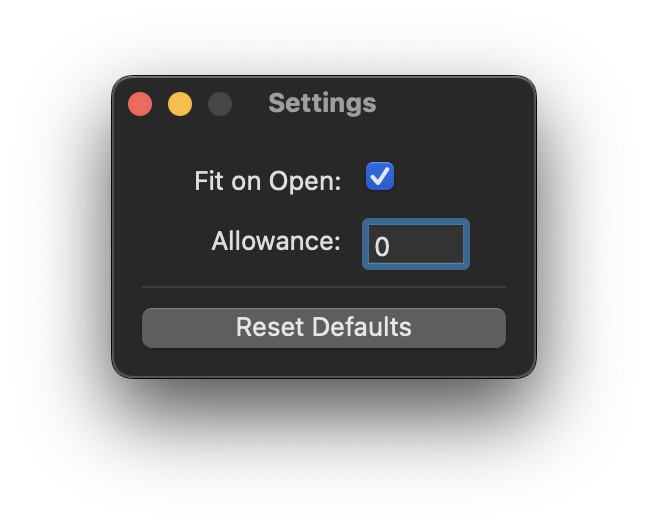
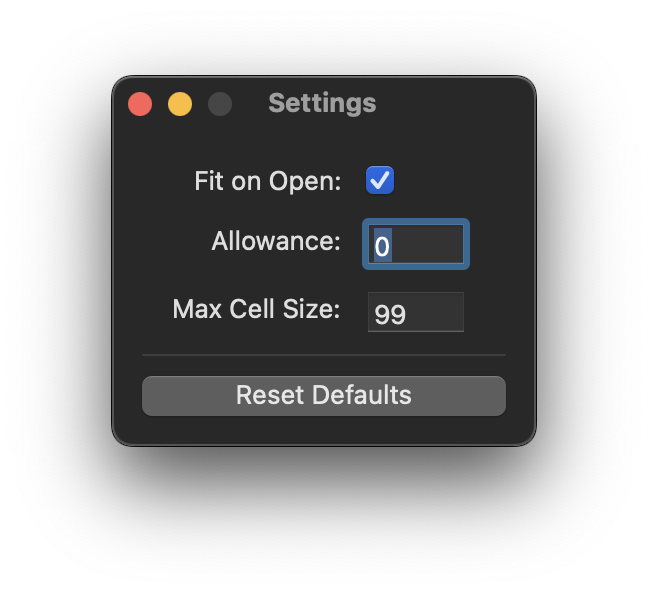
Support max cell size
Fix https://github.com/ryanbugden/Fit-Glyph-Cells/issues/5

diff --git a/source/lib/settings.py b/source/lib/settings.py
@@ -18,6 +18,9 @@ class FitGlyphCellsSettings(ezui.WindowController):
         > : Allowance:
         > [_ 0 _]              @allowance
         
+        > : Max Cell Size:
+        > [_ 99 _]             @maxCellSize
+        
         ---
         
         (Reset Defaults)       @resetDefaultsButton
@@ -33,6 +36,13 @@ class FitGlyphCellsSettings(ezui.WindowController):
                 valueType="float",
                 value=0,
                 valueIncrement=0.1,
+                valueWidth=50,
+            ),
+            maxCellSize=dict(
+                valueType="integer",
+                value=99,
+                minValue=0,
+                valueIncrement=1,
                 valueWidth=50,
             ),
             resetDefaultsButton=dict(

diff --git a/source/lib/main.py b/source/lib/main.py
@@ -124,6 +124,9 @@ class FitGlyphCells(Subscriber):
     
         cols = calculate_cells_per_row(num_glyphs, view_width, view_height)
         cell_width = math.floor(view_width / cols)
+        max_cell_size = getExtensionDefault(FGC_EXTENSION_KEY)["maxCellSize"]
+        if max_cell_size > 0 and max_cell_size < cell_width:
+            cell_width = max_cell_size
         desired_view_width = cell_width * cols
         desired_overview_width = desired_view_width + sets_width
     

diff --git a/source/lib/defaults.py b/source/lib/defaults.py
@@ -4,4 +4,5 @@ FGC_EXTENSION_KEY = 'com.ryanbugden.fitGlyphCells.settings'
 FGC_EXTENSION_DEFAULTS = {
     "fitOnOpen": True,
     "allowance": 0,
+    "maxCellSize": 99,
 }

diff --git a/README.md b/README.md
@@ -10,7 +10,7 @@ It sizes the glyph cells such that they’re as large as possible, while all bei
 
 Glyph cells will resize to be flush up against both sides of the font overview, but with minimal empty space below.
 
-Font Overview window’s width also slightly changes, because its width value can be a decimal while glyph cell size cannot.
+> Note: Font Overview window’s width also slightly changes, because its width value can be a decimal while glyph cell size cannot.
 
 ## Ways to use
 
@@ -41,6 +41,16 @@ This is how much you’re willing to allow the glyph cells to go below the botto
 * `0` = Don’t allow my glyph cells to overflow.
 * `0.5` = Allow a half-row to overflow.
 * `2` = Allow two rows to overflow.
+
+### Max Cell Size
+
+This is the maximum size you’ll allow the cells to get when fitting. For example:
+
+* `0` = No maximum.
+* `89` = Don’t enlarge to the point where font dimensions show.
+* `99` = Don’t enlarge to the point where layers show.
+
+> Note: The window will still attempt to resize and fit against the cells.
 
 
 

diff --git a/source/html/index.md b/source/html/index.md
@@ -10,7 +10,7 @@ It sizes the glyph cells such that they’re as large as possible, while all bei
 
 Glyph cells will resize to be flush up against both sides of the font overview, but with minimal empty space below.
 
-Font Overview window’s width also slightly changes, because its width value can be a decimal while glyph cell size cannot.
+> Note: Font Overview window’s width also slightly changes, because its width value can be a decimal while glyph cell size cannot.
 
 ## Ways to use
 
@@ -41,6 +41,16 @@ This is how much you’re willing to allow the glyph cells to go below the botto
 * `0` = Don’t allow my glyph cells to overflow.
 * `0.5` = Allow a half-row to overflow.
 * `2` = Allow two rows to overflow.
+
+### Max Cell Size
+
+This is the maximum size you’ll allow the cells to get when fitting. For example:
+
+* `0` = No maximum.
+* `89` = Don’t enlarge to the point where font dimensions show.
+* `99` = Don’t enlarge to the point where layers show.
+
+> Note: The window will still attempt to resize and fit against the cells.
 
 
 
